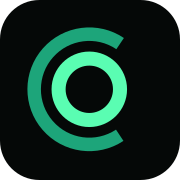
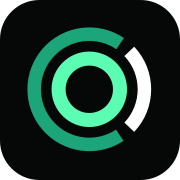
Restore the white segment to the Concord mark

Changed region(s): [[0.6944, 0.25, 0.8611, 0.75]]

diff --git a/src/styles/global.css b/src/styles/global.css
@@ -300,6 +300,7 @@ body {
      | 0.10 – 1.05 | the "C" draws itself from its top terminal              |
      | 0.10 – 0.90 | the inner ring closes alongside it, the same way round  |
      | 0.55 – 1.55 | the letters rise in, 55ms apart                         |
+     | 0.60 – 1.05 | the white segment chases the "C" up the right-hand side |
      | 0.95 – 1.85 | one halo pass over the mark, settling to a resting glow |
      | 1.05 – 1.90 | a ring of light expands out of the "C" and fades         |
      | 1.45 – 2.35 | the tagline rises in under the last letters to land      |
@@ -360,6 +361,16 @@ body {
      view box. */
   transform-origin: 63.5px 63.5px;
   transform: rotate(-56deg);
+}
+
+/* The white segment: the same draw, started late and run short. It sets off
+   from its lower terminal, the same way round as the "C" and just behind it, so
+   the two heads travel up the right-hand side one after the other. Both runs
+   end together at 1.05s — the eased "C" is all but home by then, which leaves
+   the segment as the beat that closes the mark. */
+.cx-mark-stroke-segment {
+  animation-duration: 0.45s;
+  animation-delay: 0.6s;
 }
 
 @keyframes cx-mark-draw {

diff --git a/README.md b/README.md
@@ -92,22 +92,27 @@ marketing pages stay in lockstep.
 
 ## The logo
 
-The mark is an open "C" ring with a mint inner ring, defined as inline SVG in
+The mark is a broken outer ring — a long green "C" and a short white segment
+facing it — around a mint inner ring, defined as inline SVG in
 [`src/components/Logo.astro`](src/components/Logo.astro) and again in
 [`public/favicon.svg`](public/favicon.svg).
 
 > [!NOTE]
-> The source artwork, kept at `src/assets/concord-logo-source.png` for
-> provenance, **cannot be used directly on this site.** Its "C" opening is
-> filled with *opaque white* rather than transparency — invisible on a white
-> page, a glaring white crescent on a black one.
+> **The white segment is part of the mark.** In the source artwork, kept at
+> `src/assets/concord-logo-source.png` for provenance, it is white on white and
+> so invisible; it was missed on the first trace and read as a filled opening.
+> It is not — it sits in the same ring band as the "C", with a real gap at each
+> end. Anything that puts the mark on a light background loses it.
 
 The SVG is a measured trace of that raster rather than a redraw: centre 63.5,
-outer ring r49 stroke 12, inner ring r27.3 stroke 12.5, opening from +56° to
-−56.5°, colours `#1DA57A` and `#5AFDB2` sampled from the source. The parameters
-were fitted by rendering candidates and maximising pixel overlap against the
-original, reaching an IoU of 0.948 — the remainder being antialiasing at the
-coverage threshold.
+outer ring r49 stroke 12 with the "C" running from +56° to −56.5° and the white
+segment from +43.5° to −43.5°, inner ring r27.3 stroke 12.5, colours `#1DA57A`,
+`#5AFDB2` and `#FFFFFF` sampled from the source. The parameters were fitted by
+rendering candidates and maximising pixel overlap against the original, reaching
+an IoU of 0.936 over the whole mark — the remainder being antialiasing at the
+coverage threshold. The two outer arcs measure to the same ring (mean radius
+49.5, width 12.3) and are drawn with identical `r` and `stroke-width`, which is
+worth more than fitting each one separately.
 
 `public/apple-touch-icon.png` is generated from `public/favicon.svg`:
 
